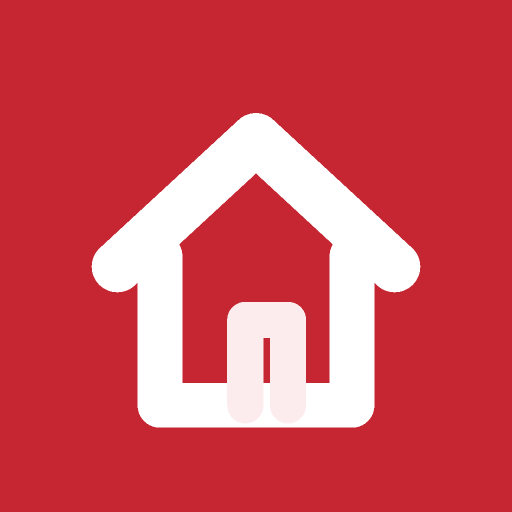
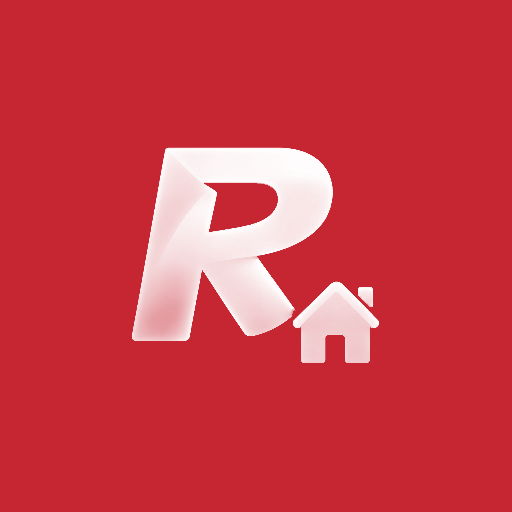
feat: apply approved Ryczałt app branding

Changed region(s): [[0.1562, 0.2188, 0.8438, 0.8438]]

diff --git a/public/index.html b/public/index.html
@@ -1,0 +1,22 @@
+<!DOCTYPE html>
+<html lang="%LANG_ISO_CODE%">
+  <head>
+    <meta charset="utf-8" />
+    <meta http-equiv="X-UA-Compatible" content="IE=edge" />
+    <meta name="viewport" content="width=device-width, initial-scale=1, shrink-to-fit=no" />
+    <title>%WEB_TITLE%</title>
+    <link rel="icon" type="image/png" sizes="16x16" href="/favicon-16.png" />
+    <link rel="icon" type="image/png" sizes="32x32" href="/favicon-32.png" />
+    <link rel="apple-touch-icon" sizes="180x180" href="/apple-touch-icon.png" />
+    <link rel="manifest" href="/manifest.webmanifest" />
+    <style id="expo-reset">
+      html, body { height: 100%; }
+      body { overflow: hidden; }
+      #root { display: flex; height: 100%; flex: 1; }
+    </style>
+  </head>
+  <body>
+    <noscript>You need to enable JavaScript to run this app.</noscript>
+    <div id="root"></div>
+  </body>
+</html>
